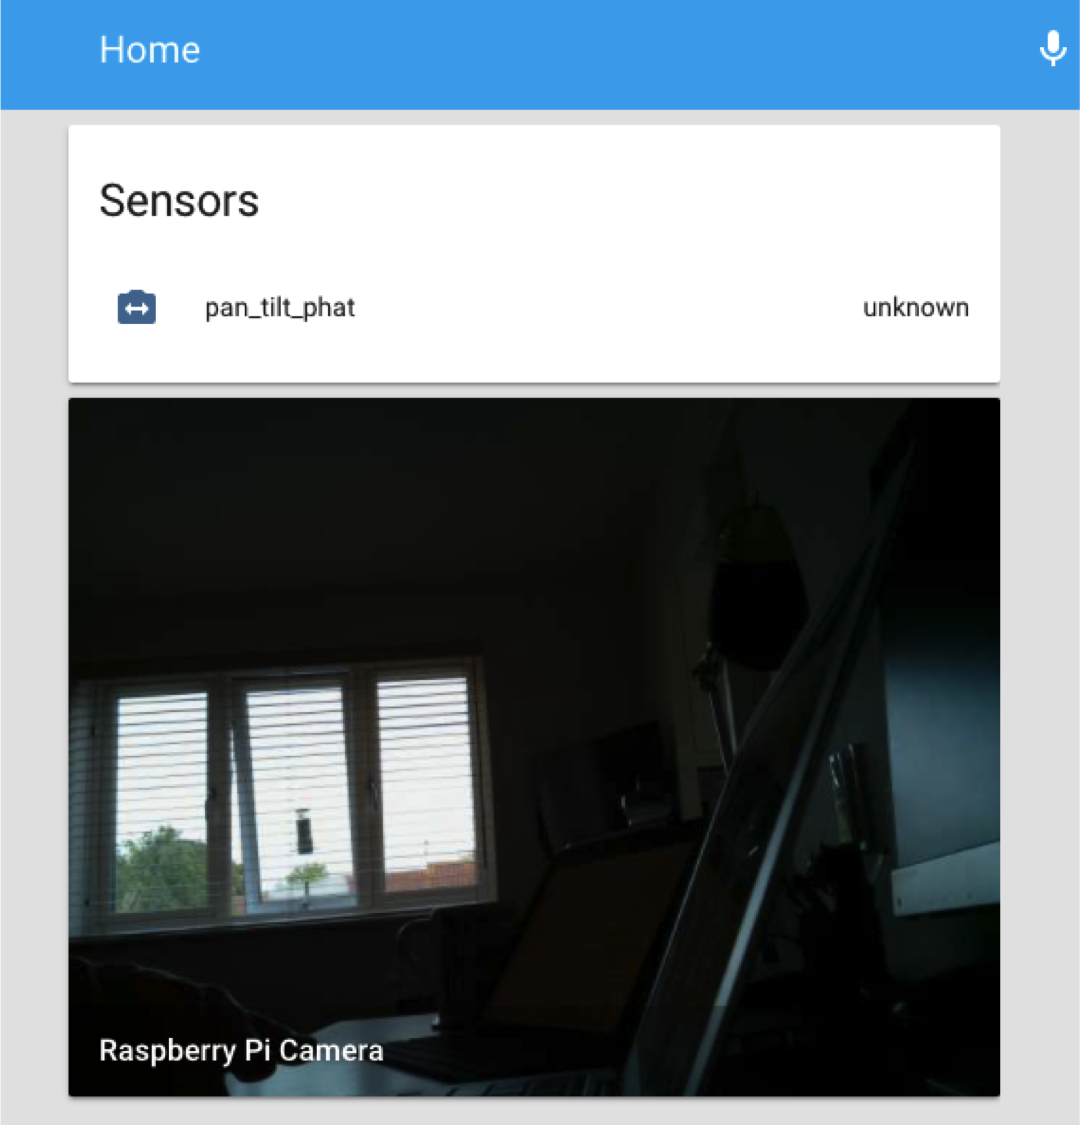
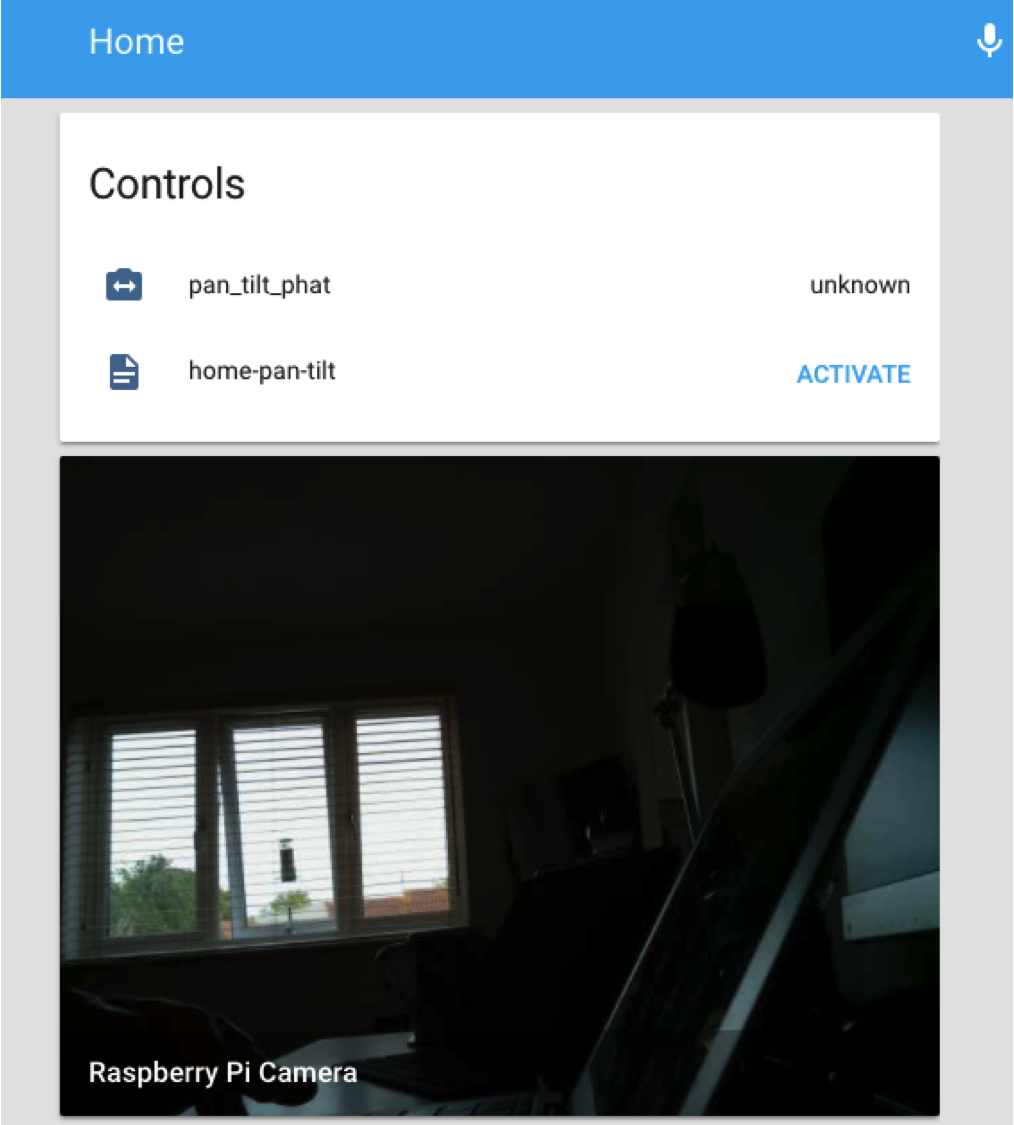
Add home script

diff --git a/README.md b/README.md
@@ -6,6 +6,8 @@ This component adds the [pimoroni](https://shop.pimoroni.com/products/pan-tilt-h
 * Add to your configuration file:
 
 ```
+script: !include scripts.yaml
+
 camera:
   - platform: rpi_camera
     vertical_flip: 1
@@ -19,12 +21,13 @@ group:
     icon: mdi:home
     entities:
       - camera.raspberry_pi_camera
-      - group.sensors_group
+      - group.controls_group
 
-  sensors_group:
-    name: Sensors
+  controls_group:
+    name: Controls
     entities:
       - sensor.pan_tilt_phat
+      - script.1503899567501
 ```
 
 <img src="https://github.com/robmarkcole/pan-tilt-phat-HASS/blob/master/my_pan_tilt.png">
